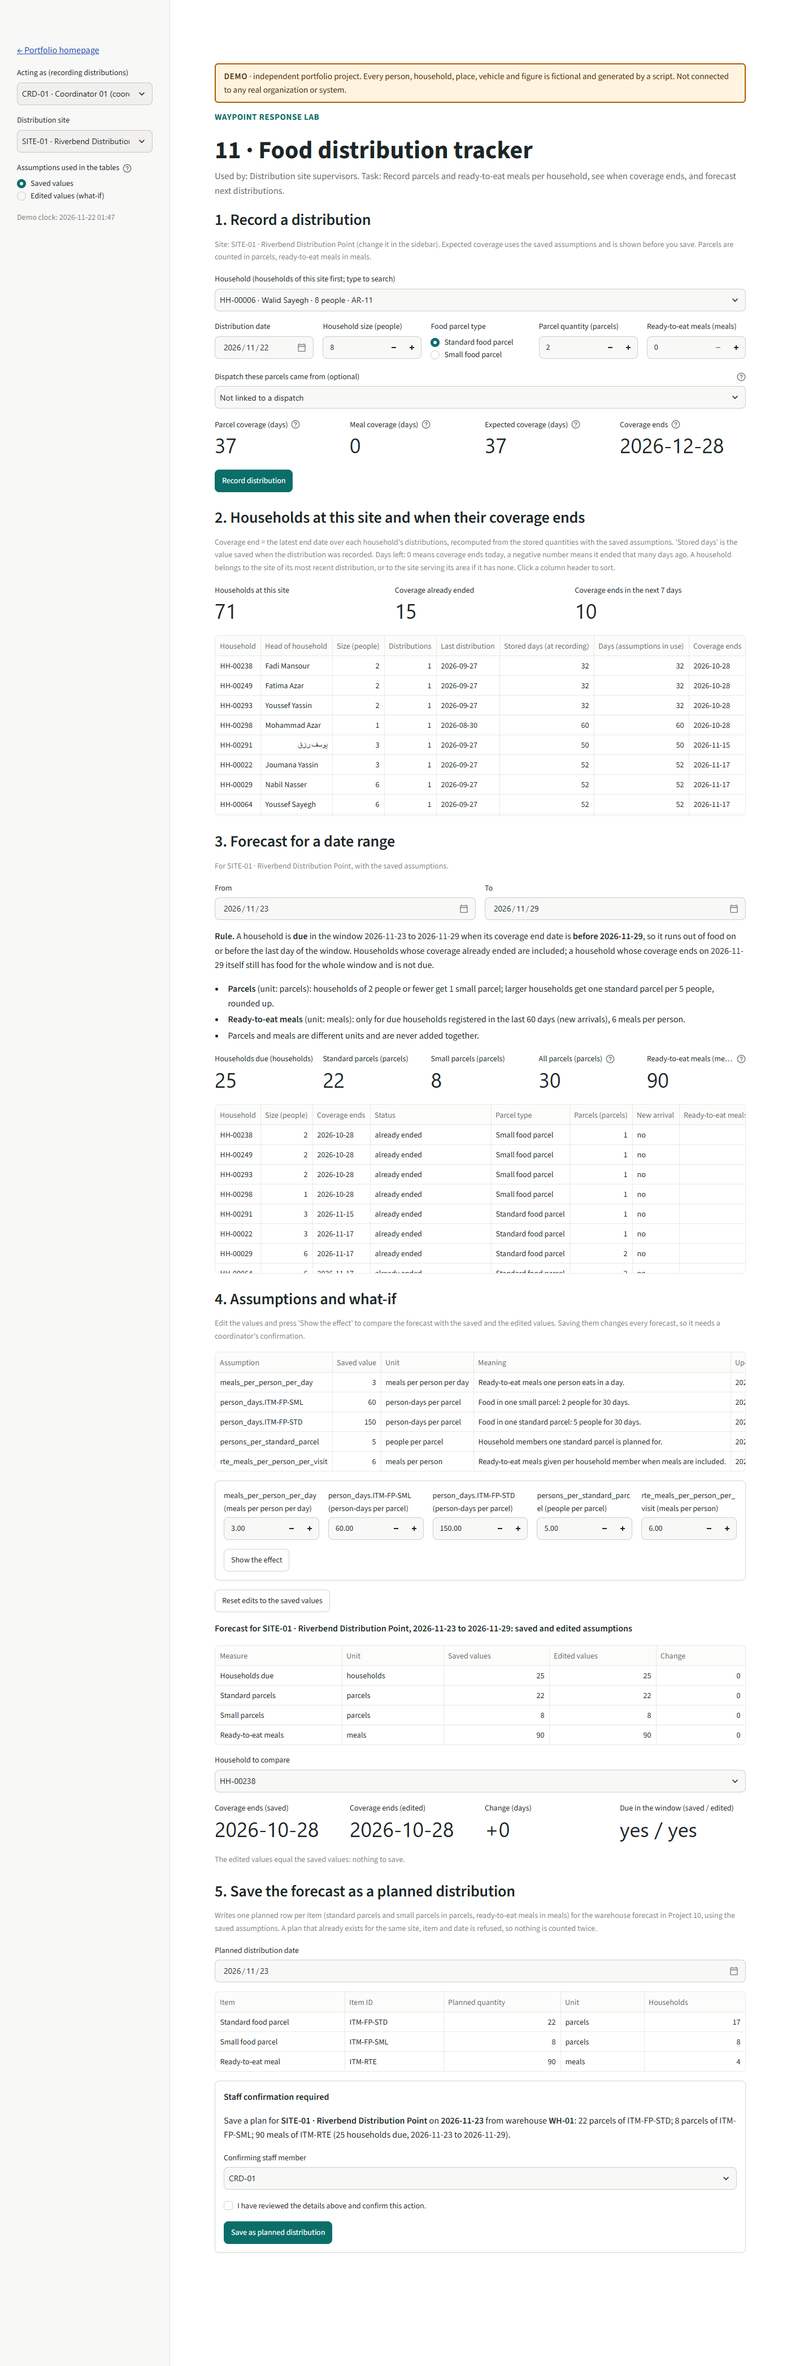
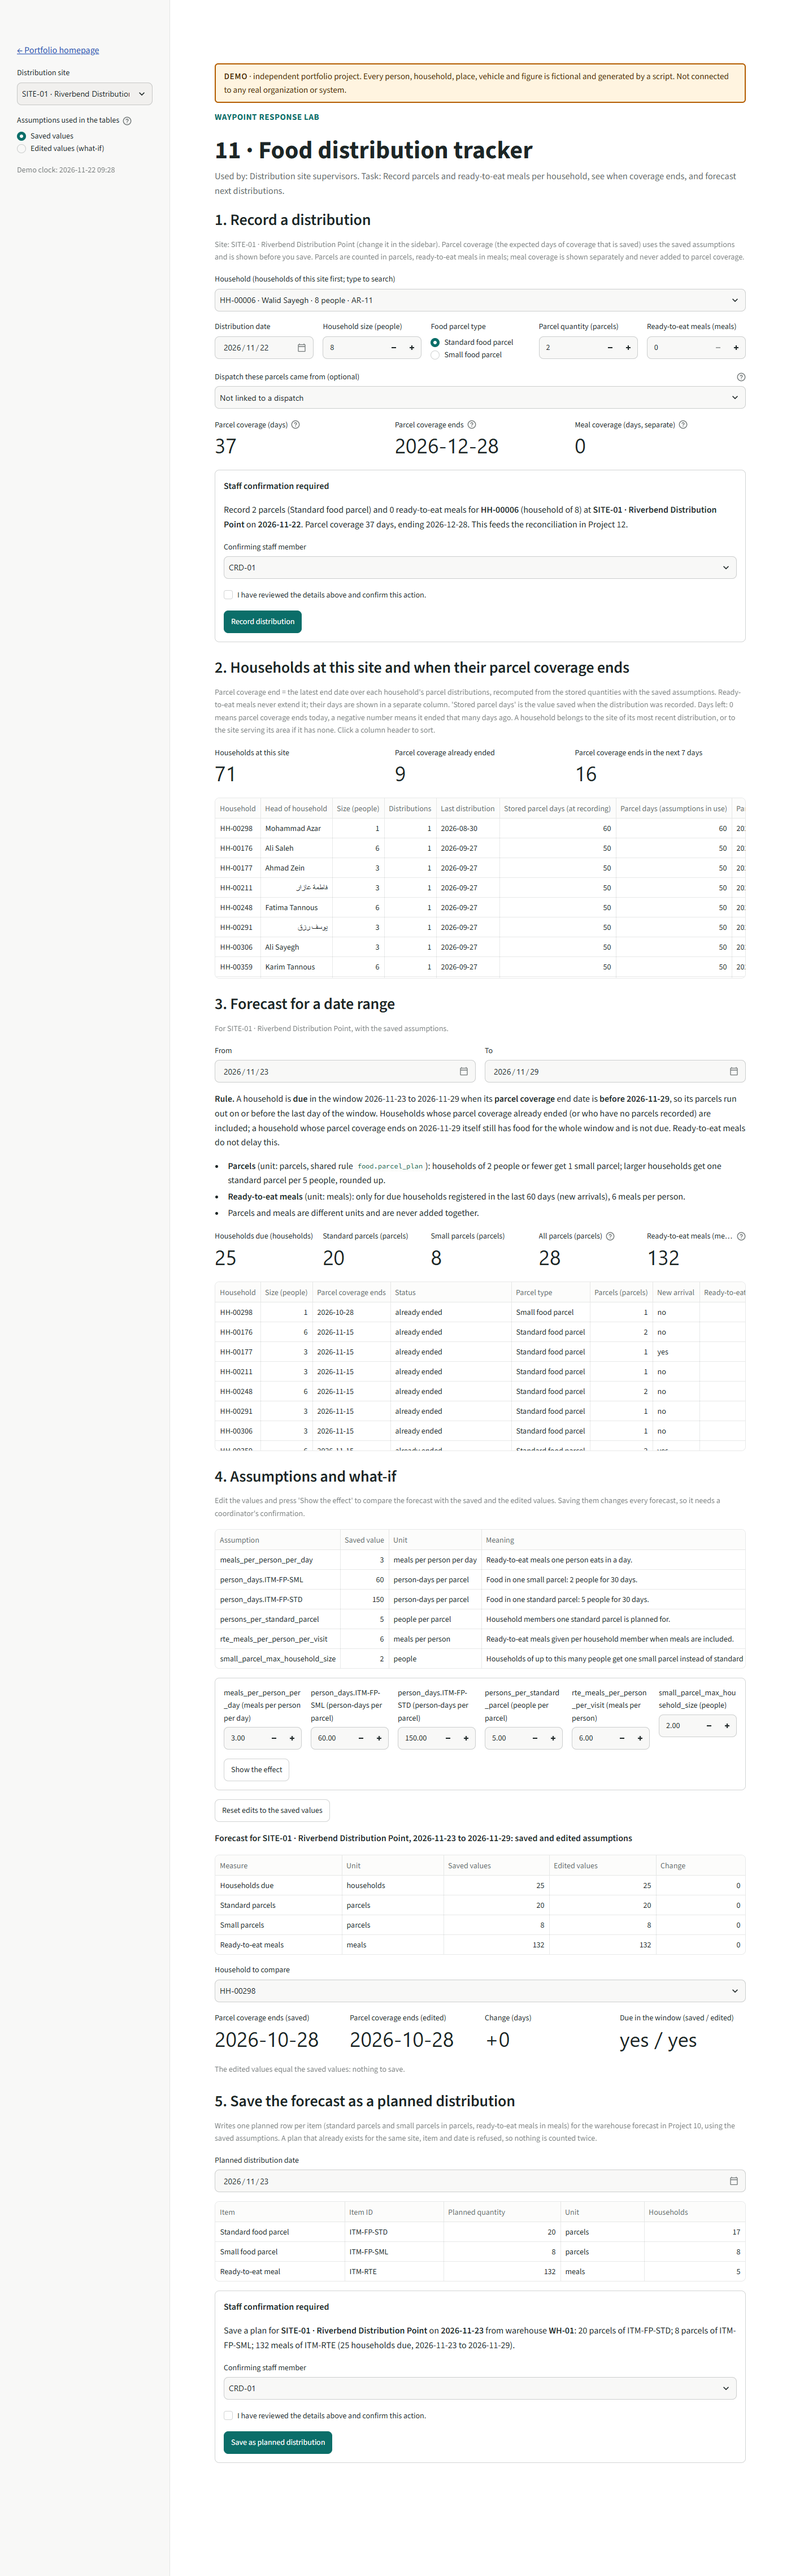
Project 11: review fixes

diff --git a/projects/11-food-distribution-tracker/app.py b/projects/11-food-distribution-tracker/app.py
@@ -29,7 +29,6 @@ if flash:
     (st.success if kind == "ok" else st.error)(text)
 
 # -- sidebar ------------------------------------------------------------------------
-acting = ui.staff_selector(("field_worker", "coordinator"), key="p11_staff", label="Acting as (recording distributions)")
 sites = p11.food_sites(conn)
 site_names = {s["site_id"]: f"{s['site_id']} · {s['name']}" for s in sites}
 site_id = st.sidebar.selectbox("Distribution site", list(site_names), format_func=lambda s: site_names[s], key="p11_site")
@@ -128,7 +127,13 @@ ui.metric_row(
         ),
     ]
 )
-if st.button("Record distribution", type="primary", key="p11_record"):
+record_summary = (
+    f"Record {qty} parcels ({ITEM_NAMES[item] if qty else 'no parcels'}) and {meals} ready-to-eat meals for **{hid}** "
+    f"(household of {size}) at **{site_names[site_id]}** on **{dist_date}**. Parcel coverage {preview['parcel_days']} days, "
+    f"ending {show_date(preview['parcel_coverage_end'], 'no parcels')}. This feeds the reconciliation in Project 12."
+)
+acting = ui.confirm_action("p11_record", record_summary, roles=p11.RECORD_ROLES, button_label="Record distribution")
+if acting:
     try:
         with db.transaction() as wconn:
             res = p11.record_distribution(
@@ -140,15 +145,15 @@ if st.button("Record distribution", type="primary", key="p11_record"):
                 parcel_item_id=item,
                 parcel_quantity=qty,
                 rte_meal_quantity=meals,
-                recorded_by=acting or "",
+                recorded_by=acting,
                 dispatch_id=dispatch_id,
             )
-    except ValueError as exc:
+    except (ValueError, confirm.ConfirmationRequired) as exc:
         st.error(f"Not recorded: {exc}")
     else:
         finish(
             "ok",
-            f"Recorded {res['distribution_id']} for {hid}: {qty} parcels and {meals} meals. "
+            f"Recorded {res['distribution_id']} for {hid}: {qty} parcels and {meals} meals, confirmed by {acting}. "
             f"Parcel coverage {res['expected_coverage_days']} days, ending {show_date(res['coverage_end'], 'no parcels')}; "
             f"meal coverage {res['meal_days']} days (separate).",
         )

diff --git a/projects/11-food-distribution-tracker/p11_food.py b/projects/11-food-distribution-tracker/p11_food.py
@@ -21,6 +21,7 @@ SMALL_PARCEL = food.SMALL_PARCEL
 RTE_MEAL = "ITM-RTE"
 PARCEL_ITEMS: tuple[str, ...] = (STANDARD_PARCEL, SMALL_PARCEL)
 NEW_ARRIVAL_DAYS = 60  # households registered this recently also get ready-to-eat meals
+RECORD_ROLES: tuple[str, ...] = ("field_worker", "coordinator")
 PLAN_ROLES: tuple[str, ...] = ("coordinator",)
 ASSUMPTION_ROLES: tuple[str, ...] = ("coordinator",)
 
@@ -334,11 +335,10 @@ def record_distribution(
     """Write one distributions row; expected_coverage_days = parcel days with the saved assumptions.
 
     Meal days are returned for display but never stored in or added to the parcel coverage.
-    Call inside db.transaction() (next_id needs the write lock). Routine data entry: no staff confirmation, but the acting staff is recorded and audited.
+    Call inside db.transaction() (next_id needs the write lock). Needs a staff confirmation (recorded_by is the confirming staff member, a field worker or coordinator); audited.
     It never creates dispatches or stock movements (stock is Project 10's ledger).
     """
-    if not recorded_by or conn.execute("SELECT 1 FROM staff WHERE staff_id = ? AND active = 1", (recorded_by,)).fetchone() is None:
-        raise ValueError("Choose the acting staff member before recording.")
+    confirm.require_confirmation(conn, recorded_by, allowed_roles=RECORD_ROLES)
     if site_id not in SITE_CATCHMENT:
         raise ValueError(f"{site_id} is not a food distribution site.")
     hh = conn.execute("SELECT status FROM households WHERE household_id = ?", (household_id,)).fetchone()

diff --git a/tests/test_p11_food_distribution.py b/tests/test_p11_food_distribution.py
@@ -369,8 +369,10 @@ def test_record_refuses_invalid_and_double_entries(tx: sqlite3.Connection) -> No
     with pytest.raises(ValueError):
         # DSP-0001 is not a dispatch of standard parcels to this site for today.
         p11.record_distribution(tx, distribution_date=TODAY, parcel_quantity=1, recorded_by="FW-01", dispatch_id="DSP-0001", **base)
-    with pytest.raises(ValueError):
+    with pytest.raises(confirm.ConfirmationRequired):
         p11.record_distribution(tx, distribution_date=TODAY, parcel_quantity=1, recorded_by="", **base)
+    with pytest.raises(confirm.ConfirmationRequired):
+        p11.record_distribution(tx, distribution_date=TODAY, parcel_quantity=1, recorded_by="DO-01", **base)
     record(tx, hid, site, 5)
     with pytest.raises(ValueError, match="twice"):
         record(tx, hid, site, 5)
@@ -465,7 +467,8 @@ def test_app_records_the_walkthrough_parcel(app_test, db_path) -> None:  # noqa:
     at.sidebar.selectbox(key="p11_site").set_value(sc["site_id"]).run()
     at.selectbox(key="p11_rec_household").set_value(sc["household_id"]).run()
     assert not at.exception
-    at.button(key="p11_record").click().run()
+    at.checkbox(key="confirm_tick_p11_record").check()
+    next(b for b in at.button if b.label == "Record distribution").click().run()
     assert not at.exception
     assert any("Parcel coverage 30 days" in s.value for s in at.success)
     with db.transaction(db_path) as c:

diff --git a/projects/11-food-distribution-tracker/README.md b/projects/11-food-distribution-tracker/README.md
@@ -30,20 +30,22 @@ module `shared/food.py`; the forecast applies a documented due-date rule and par
 
 ## Assumptions
 
-- **Coverage days** = parcel days + meal days, each converted to days separately (`food.coverage_days`):
-  parcel days = parcels x person-days per parcel / people (rounded down); meal days = meals / (people x meals per person
-  per day) (rounded down). Seeded values: a standard parcel is 150 person-days (5 people for 30 days), a small parcel 60
-  person-days (2 people for 30 days), 3 meals per person per day.
-- **Coverage end** = distribution date + coverage days - 1 (the distribution day is day 1). A household's coverage end
-  is the latest end over all its distributions, recomputed from the stored quantities with the assumptions in use. The
+- **Parcel coverage days** come from parcels only (`food.parcel_coverage_days`): parcels x person-days per parcel /
+  people, rounded down. This is the household's expected days of coverage and what is stored. **Meal coverage days** are
+  a separate figure (`food.meal_coverage_days`): meals / (people x meals per person per day), rounded down. They are
+  shown beside the parcel days and never added to them or to the coverage end date. Seeded values: a standard parcel is
+  150 person-days (5 people for 30 days), a small parcel 60 person-days (2 people for 30 days), 3 meals per person per day.
+- **Parcel coverage end** = distribution date + parcel coverage days - 1 (the distribution day is day 1). A household's
+  coverage end is the latest end over its distributions that include parcels (a meals-only distribution gives none),
+  recomputed from the stored quantities with the assumptions in use. The
   stored `expected_coverage_days` (the value at recording time) is shown beside it.
 - **A household's site** for the forecast is the site of its most recent distribution; a household with none belongs
   to the site whose catchment includes its area.
 - **Due for support** in a window [start, end]: the coverage end date is before the end date, so the household runs out
   of food on or before the last day of the window. Households whose coverage already ended, and households with no
   recorded distribution, are due.
-- **Parcels required**: households of 1 or 2 people get 1 small parcel; larger households get one standard parcel per
-  5 people (editable), rounded up. Standard and small parcels are shown as separate counts, both in parcels.
+- **Parcels required** (the shared rule `food.parcel_plan`, also used by the seed): households of up to 2 people get 1
+  small parcel; larger households get one standard parcel per 5 people (editable), rounded up. Standard and small parcels are shown as separate counts, both in parcels.
 - **Ready-to-eat meals required**: only due households registered in the last 60 days (new arrivals), household size x
   6 meals (editable). Shown in meals. **Parcels and meals are never added together** in any total, metric, table or plan.
 - **Planned distributions** feed Project 10's warehouse forecast: one `distribution_plans` row per item with a quantity
@@ -56,8 +58,8 @@ module `shared/food.py`; the forecast applies a documented due-date rule and par
 - The forecast uses each household's current registered size; a size entered at a distribution only affects that
   distribution's coverage.
 - New arrivals are counted from today (registered in the last 60 days), not from the window start.
-- Recording a distribution is routine data entry: it records the acting staff member and is audited, but needs no
-  confirmation. Saving assumptions and saving a plan need a coordinator's confirmation.
+- Recording a distribution needs a staff confirmation (a field worker or coordinator ticks the confirmation box in the
+  form) and is audited. Saving assumptions and saving a plan need a coordinator's confirmation.
 - A second distribution for the same household on the same date is refused as a likely double entry.
 - The dispatch list offers dispatches of the chosen parcel type to the site on the distribution day or the evening
   before (when the seed's stock arrives). Recording never creates dispatches or stock movements: stock is Project 10's
@@ -84,19 +86,19 @@ Port 8511. Run from the repository root with the virtual environment's Python.
 
 The walkthrough household comes from the seed: `json.loads(db.get_setting("demo.scenarios"))["p11"]` gives
 `household_id`, `household_size`, `site_id` and `current_coverage_end`. On a freshly seeded database it is a household
-of 5 people whose coverage ends 2 to 6 days after today (with the current seed: **HH-00037** at **SITE-06 · Almond
-Grove Distribution Point**, coverage ending **today + 6 days**).
+of 5 people whose parcel coverage ends a few days after today (with the current seed: **HH-00037** at **SITE-06 · Almond
+Grove Distribution Point**, parcel coverage ending **today + 4 days**).
 
 1. In the sidebar choose the scenario site (SITE-06). In section 2, find the household (sort by "Household" or use the
-   table search). **Expected:** its coverage ends on `current_coverage_end` (today + 6 days, "Days left" 6), with 32
-   stored days from its last distribution 25 days ago.
+   table search). **Expected:** its coverage ends on `current_coverage_end` (today + 4 days, "Days left" 4), with 30
+   stored parcel days from its last distribution 25 days ago.
 2. In section 3, keep the default window (tomorrow to today + 7 days, "next week"). **Expected:** the household is
    listed as due ("ends before the window's last day", 1 standard parcel, no meals because it registered more than 60
    days ago). At SITE-06 the forecast shows 28 households due, 28 standard parcels, 6 small parcels, 34 parcels in all,
    and 120 ready-to-eat meals (a separate unit).
 3. In section 1, choose the household (the size defaults to 5, the parcel type to standard, the quantity to 1, meals to
-   0). **Expected preview before saving:** parcel coverage 30 days (150 / 5), meal coverage 0, expected coverage
-   30 days, coverage ends **today + 29 days**. Press **Record distribution**.
+   0). **Expected preview before saving:** parcel coverage 30 days (150 / 5), meal coverage 0 (separate), expected
+   coverage 30 days, coverage ends **today + 29 days**. Press **Record distribution** in the staff confirmation form (choose the confirming staff member, tick the box).
 4. **Expected:** a confirmation with the new distribution ID and "30 days of coverage, ending today + 29". In section 2
    the household's coverage end is today + 29 days ("Days left" 29, stored days 30). In section 3 it is no longer in next
    week's forecast: 27 households due and 27 standard parcels (one fewer, the household's parcel), small parcels (6)
@@ -109,10 +111,10 @@ coordinator's confirmation; saving a plan twice for the same site, item and date
 
 ## Tests
 
-`tests/test_p11_food_distribution.py` (28 tests):
+`tests/test_p11_food_distribution.py` (24 tests):
 
 - Parcel coverage and coverage end dates by household size (1 standard parcel: 5 people 30 days, 3 people 50 days,
-  6 people 25 days; 1 small parcel for 2 people 30 days), meals adding days separately, coverage stored at recording.
+  6 people 25 days; 1 small parcel for 2 people 30 days), meal days kept separate from parcel days, coverage stored at recording.
 - Edited assumptions (`person_days.ITM-FP-STD` = 120) change coverage, the coverage end date and the forecast; saving
   assumptions refuses without a coordinator's confirmation, validates values, updates `updated_at`/`updated_by` and audits.
 - Parcels and ready-to-eat meals never summed: forecast summary fields and units, all parcels = standard + small only,
@@ -125,4 +127,4 @@ coordinator's confirmation; saving a plan twice for the same site, item and date
   no stock movements created.
 - Saving a plan writes one `distribution_plans` row per item with correct units, warehouse and households, needs
   confirmation, is audited, and refuses a duplicate or a seeded existing plan and past dates.
-- `app_test(11)` starts without an exception, and recording the walkthrough parcel through the app writes the row.
+- `app_test(11)` starts without an exception; recording the walkthrough parcel through the app needs the confirmation and writes the row; recording without a valid confirming staff member is refused.
